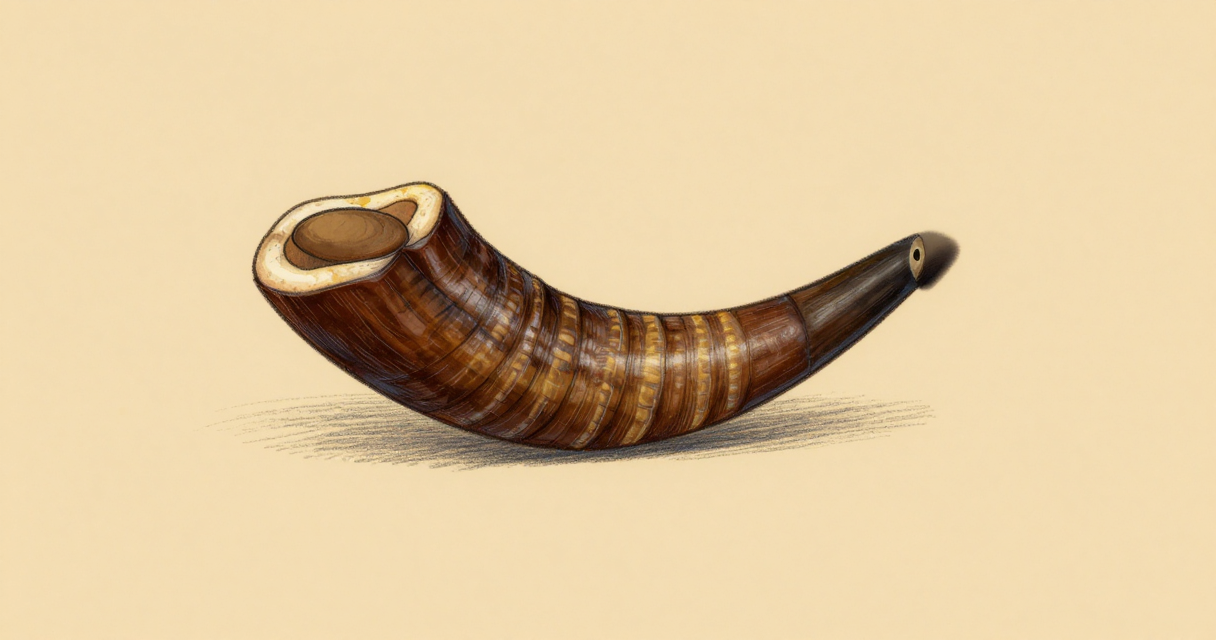
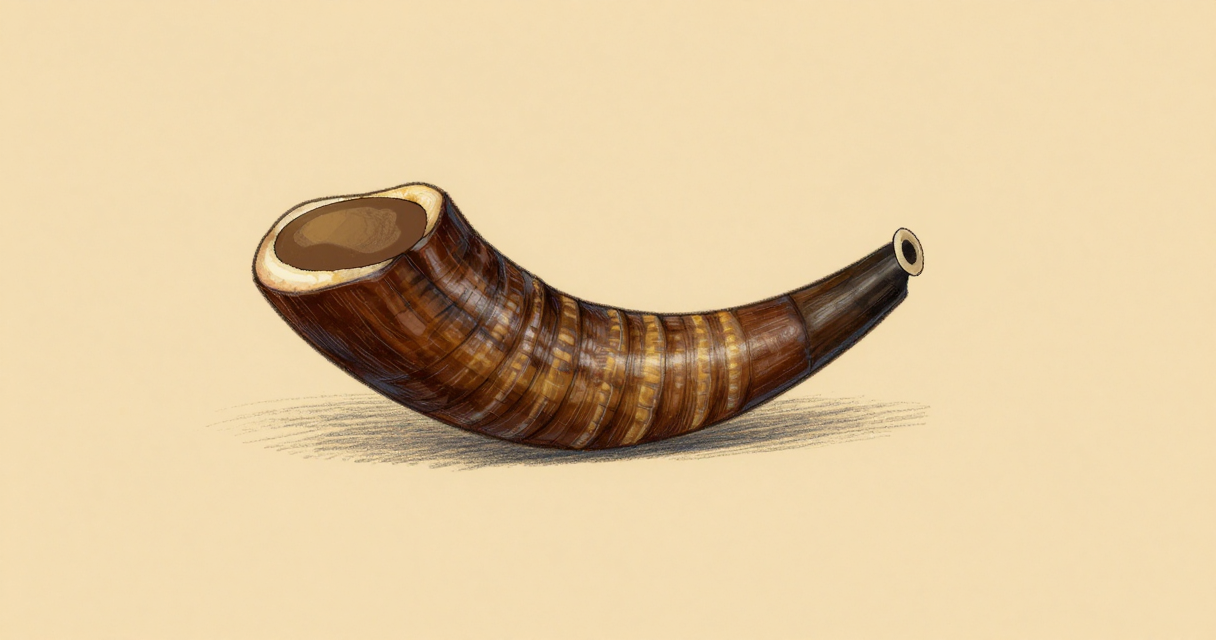
feat(canon): 기름 뿔 정본 — 끝 구멍 또렷하게·마개 입구에 꽉 차게(657, 사람 656)
Claude-Session: https://claude.ai/code/session_012hBPKFwr9raj2757bWq1Lv

Changed region(s): [[0.2188, 0.2812, 0.375, 0.4375], [0.7188, 0.3438, 0.8125, 0.4688]]

diff --git a/scripts/canon/batch/horn_sheet_fix.py b/scripts/canon/batch/horn_sheet_fix.py
@@ -6,16 +6,21 @@ from PIL import Image, ImageDraw
 D = os.path.join(CANON, "samples", "prop-oil-horn-lying")
 
 def compose():
-    import cv2, numpy as np
+    import math
     im = Image.open(os.path.join(D, "sheet-s5.png")).convert("RGB")
-    mask = Image.new("L", im.size, 0); ImageDraw.Draw(mask).rectangle([917, 205, 1000, 300], fill=255)   # 끝 바깥을 종이로
-    im = Image.fromarray(cv2.inpaint(np.array(im)[:, :, ::-1], np.array(mask), 9, cv2.INPAINT_TELEA)[:, :, ::-1])
     d = ImageDraw.Draw(im)
-    d.ellipse([907, 236, 925, 274], fill=(196, 160, 110), outline=(70, 45, 25), width=2)   # 잘린 면
-    d.ellipse([912, 250, 920, 260], fill=(40, 25, 15))                                    # 주둥이 구멍
-    d.ellipse([292, 207, 412, 262], fill=(128, 84, 46), outline=(70, 45, 25), width=3)    # 입구에 꼭 맞는 나무 마개
-    d.ellipse([310, 214, 380, 240], fill=(156, 108, 62))                                  # 마개 윗면 밝은 결
+    paper = im.getpixel((1050, 150))
+    d.rectangle([908, 196, 1010, 300], fill=paper)                        # 끝 바깥을 종이색으로(둘레 화소 메움은 그림자 얼룩 — 656)
+    def ell(cx, cy, rx, ry, deg, n=48):
+        a = math.radians(deg)
+        return [(cx + rx * math.cos(t) * math.cos(a) - ry * math.sin(t) * math.sin(a),
+                 cy + rx * math.cos(t) * math.sin(a) + ry * math.sin(t) * math.cos(a)) for t in (2 * math.pi * i / n for i in range(n))]
+    d.polygon(ell(908, 252, 13, 25, -20), fill=(205, 170, 120), outline=(60, 38, 20))   # 잘린 면(보는 쪽으로 조금 돌림)
+    d.polygon(ell(909, 252, 6, 12, -20), fill=(25, 15, 8))                                # 크고 짙은 주둥이 구멍(사람 656 「구멍 뚫는데 잘보이게」)
+    d.polygon(ell(352, 234, 80, 34, -11), fill=(122, 80, 44), outline=(64, 40, 22))      # 입구 안쪽 타원을 꽉 채운 마개(사람 656 「마개는 입구에 맞게」)
+    d.polygon(ell(345, 228, 52, 18, -11), fill=(150, 104, 60))                           # 마개 윗면 결
     im.save(os.path.join(D, "fix-src.png"))
+
 
 def redraw():
     import run_scene, prop_sheet as P
@@ -24,7 +29,7 @@ def redraw():
               "lying on its side, its wide opening at the upper left closed by a fitted round wooden stopper, the body sagging into a gentle curve "
               "and rising to the right, its tip cut off flat with a small hole. No hands, no people, no background, no text.")
     jobs = [{"prompt": prompt, "seed": 5, "w": 1216, "h": 640, "src": os.path.join(D, "fix-src.png"), "strength": s,
-             "out": os.path.join(D, f"fix-{s}.png")} for s in (0.25, 0.35)]
+             "out": os.path.join(D, f"fix-{s}.png")} for s in (0.2, 0.25)]
     tmp = os.path.expanduser("~/.local/biblemap-imggen/prop-oil-horn-lying"); os.makedirs(tmp, exist_ok=True)
     print("[HornSheetFix]", run_scene.gen_zimage(jobs, tmp, "i2i"))
 
